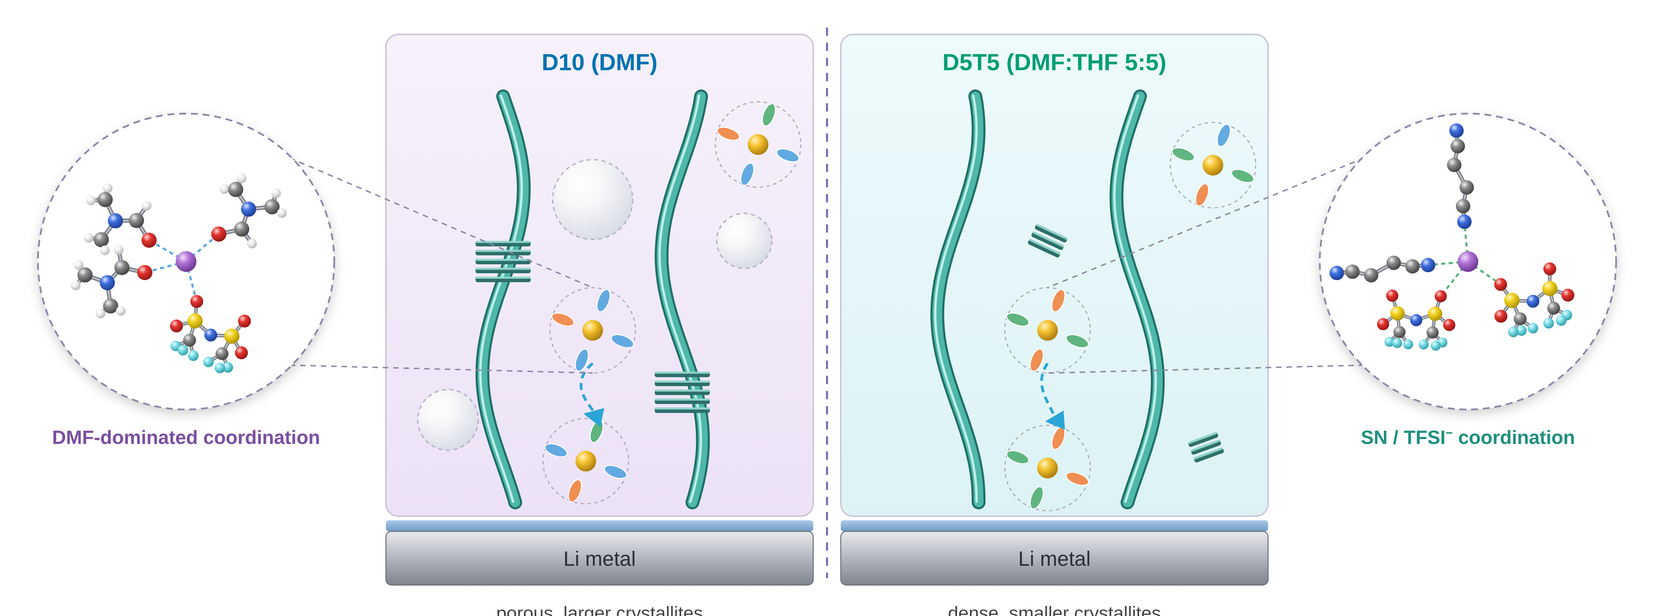
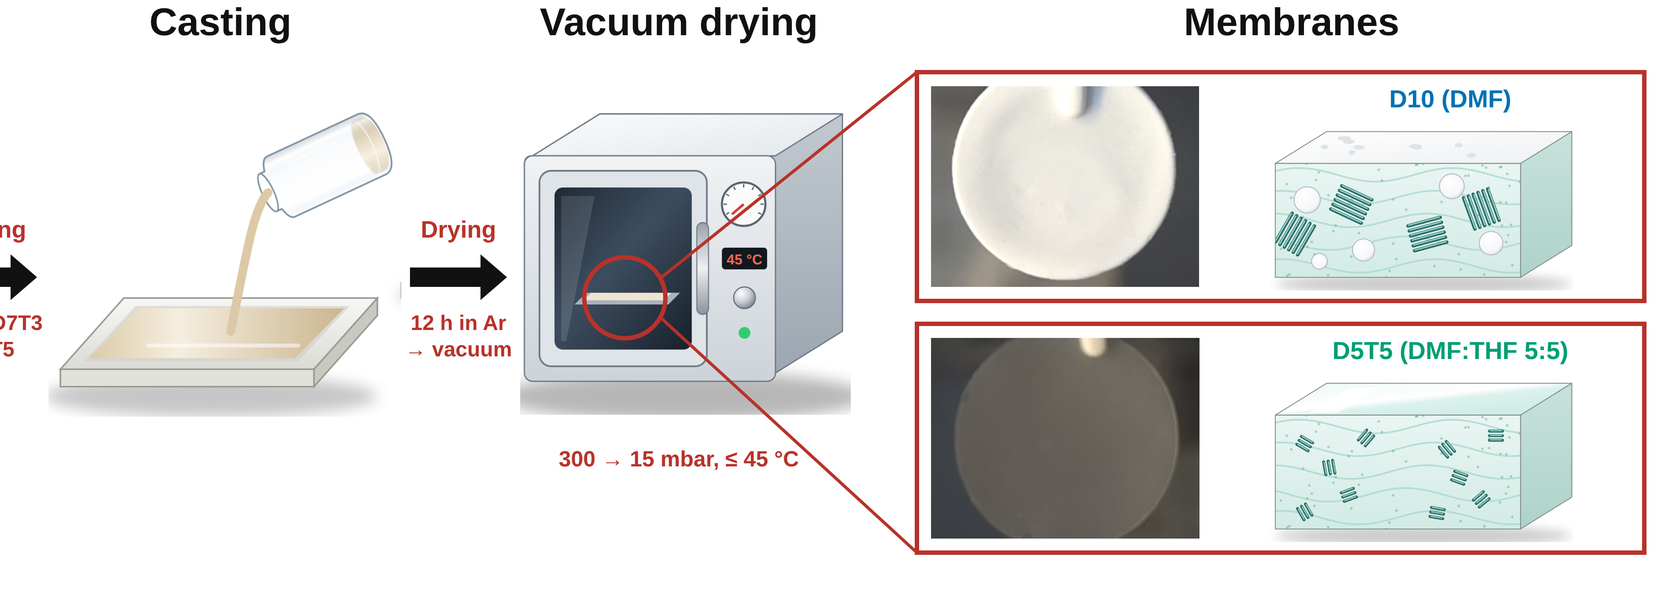
Polymer page: single overview figure with membrane photos and electronic conductivity
Claude-Session: https://claude.ai/code/session_011CpiUnPEaysCjyarAkSxyt

diff --git a/research-polymer.html b/research-polymer.html
@@ -101,8 +101,8 @@
     <section class="research-detail-figure polymer-detail-figure">
 
       <img
-        src="images/polymer-scheme.png"
-        alt="Fabrication of PVDF-HFP/succinonitrile/LiTFSI membranes from DMF or DMF:THF and the proposed microstructure of each film"
+        src="images/polymer-overview.png"
+        alt="Overview: membrane synthesis, casting and vacuum drying; photographs and proposed structure of D10 and D5T5 membranes; electrochemical analysis and operando SAXS/WAXS"
       >
 
     </section>
@@ -129,90 +129,15 @@
         white, whereas DMF:THF-cast membranes are translucent, pointing to
         differences in porosity and crystallinity. The
         conductivity follows Arrhenius behaviour between 30 and 70 °C, with the
-        lowest activation energy for DMF:THF-cast D5T5 (0.27 eV). Oxidation
+        lowest activation energy for DMF:THF-cast D5T5 (0.27 eV), while the
+        electronic conductivity stays at about 10<sup>−10</sup> S cm<sup>−1</sup>,
+        five to six orders of magnitude below the ionic one. Oxidation
         starts at about 4.35–4.38 V vs Li<sup>+</sup>/Li,
         and Li|Li cells cycle with nearly identical overpotentials over 146 h.
         Ongoing work combines ex situ SAXS/WAXS, SEM and TGA with operando
         SAXS/WAXS in window coin cells to follow how the membrane nanostructure
         responds to lithium plating and stripping.
       </p>
-
-    </section>
-
-
-
-    <!-- =========================
-         Key Results
-    ========================== -->
-
-    <section class="research-detail-section results-section">
-
-      <h2>Key Results</h2>
-
-      <div class="results-grid">
-
-        <figure class="result-card result-wide result-narrow">
-          <img src="images/polymer-fig-arrhenius.png" alt="Arrhenius plot of ionic conductivity of D10, D7T3 and D5T5 membranes between 30 and 70 °C">
-          <figcaption>
-            <h3>Ion transport</h3>
-            <p>
-              Temperature-dependent ionic conductivity (SS|SS, 30–70 °C) with
-              Arrhenius fits. The DMF:THF-cast D5T5 membrane shows the highest
-              conductivity and the lowest activation energy (0.27 eV, vs 0.33 eV
-              for D7T3 and 0.37 eV for D10).
-            </p>
-          </figcaption>
-        </figure>
-
-        <figure class="result-card result-wide result-narrow">
-          <img src="images/polymer-fig-lsv.png" alt="Linear sweep voltammetry of D10 and D7T3 membranes with an inset of the onset region">
-          <figcaption>
-            <h3>Oxidative stability</h3>
-            <p>
-              Linear sweep voltammetry (Li|SS, 1 mV s<sup>−1</sup>). The inset
-              marks the onset at 10 µA cm<sup>−2</sup>: 4.35 V for D10 and
-              4.38 V for D7T3.
-            </p>
-          </figcaption>
-        </figure>
-
-        <figure class="result-card result-wide">
-          <img src="images/polymer-fig-licu-cv.png" alt="Cyclic voltammetry of Li|Cu cells for SEI formation and lithium plating/stripping">
-          <figcaption>
-            <h3>Li|Cu cyclic voltammetry</h3>
-            <p>
-              Representative cyclic voltammograms of Li|Cu cells (1 mV s<sup>−1</sup>):
-              SEI formation between 0 and 2.5 V (left) and lithium plating and
-              stripping between −0.5 and 2.5 V (right, shown up to 1.0 V).
-            </p>
-          </figcaption>
-        </figure>
-
-        <figure class="result-card result-wide">
-          <img src="images/polymer-fig-lili.png" alt="Li symmetric cell rate test and long-term cycling of D10 and D5T5">
-          <figcaption>
-            <h3>Li|Li cycling</h3>
-            <p>
-              Rate test at 0.05–0.2 mA cm<sup>−2</sup> followed by 146 h at
-              0.1 mA cm<sup>−2</sup>. D10 and D5T5 show nearly identical
-              overpotentials.
-            </p>
-          </figcaption>
-        </figure>
-
-        <figure class="result-card result-wide">
-          <img src="images/polymer-detail.png" alt="KWS-X laboratory SAXS/WAXS setup and operando data workflow">
-          <figcaption>
-            <h3>Operando SAXS/WAXS (in progress)</h3>
-            <p>
-              Laboratory SAXS/WAXS (KWS-X, Ga MetalJet source) with coin cells
-              fitted with X-ray windows, to track crystallinity, lamellar spacing
-              and Li-deposit scattering while the cell is cycled.
-            </p>
-          </figcaption>
-        </figure>
-
-      </div>
 
     </section>
 
@@ -255,6 +180,7 @@
           <h3>Electrochemical Analysis</h3>
           <ul>
             <li>Impedance Spectroscopy (σ, σ(T))</li>
+            <li>DC Polarization (Electronic Conductivity)</li>
             <li>Linear Sweep Voltammetry</li>
             <li>Li|Cu Cyclic Voltammetry</li>
             <li>Li|Li Cycling, Transference Number</li>
